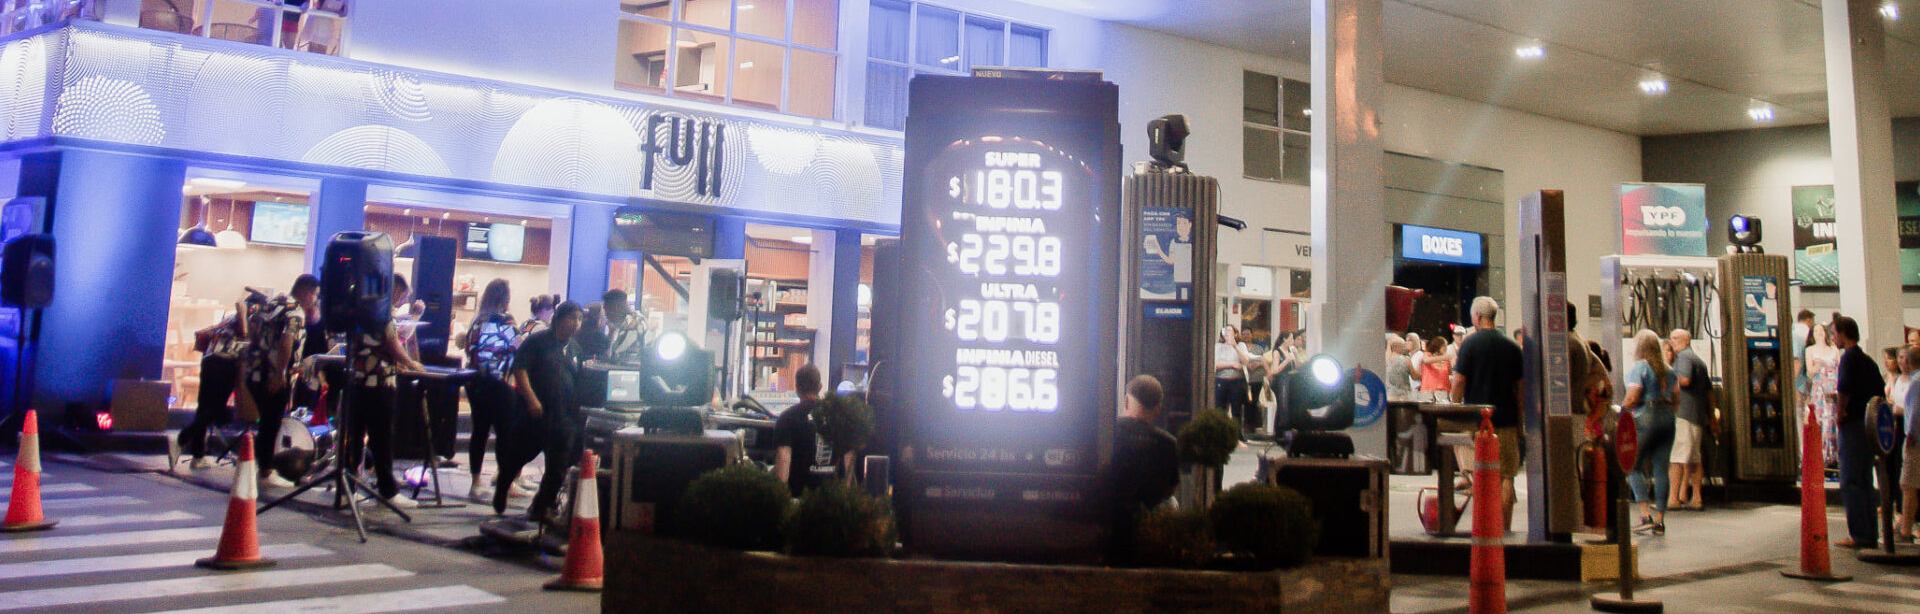
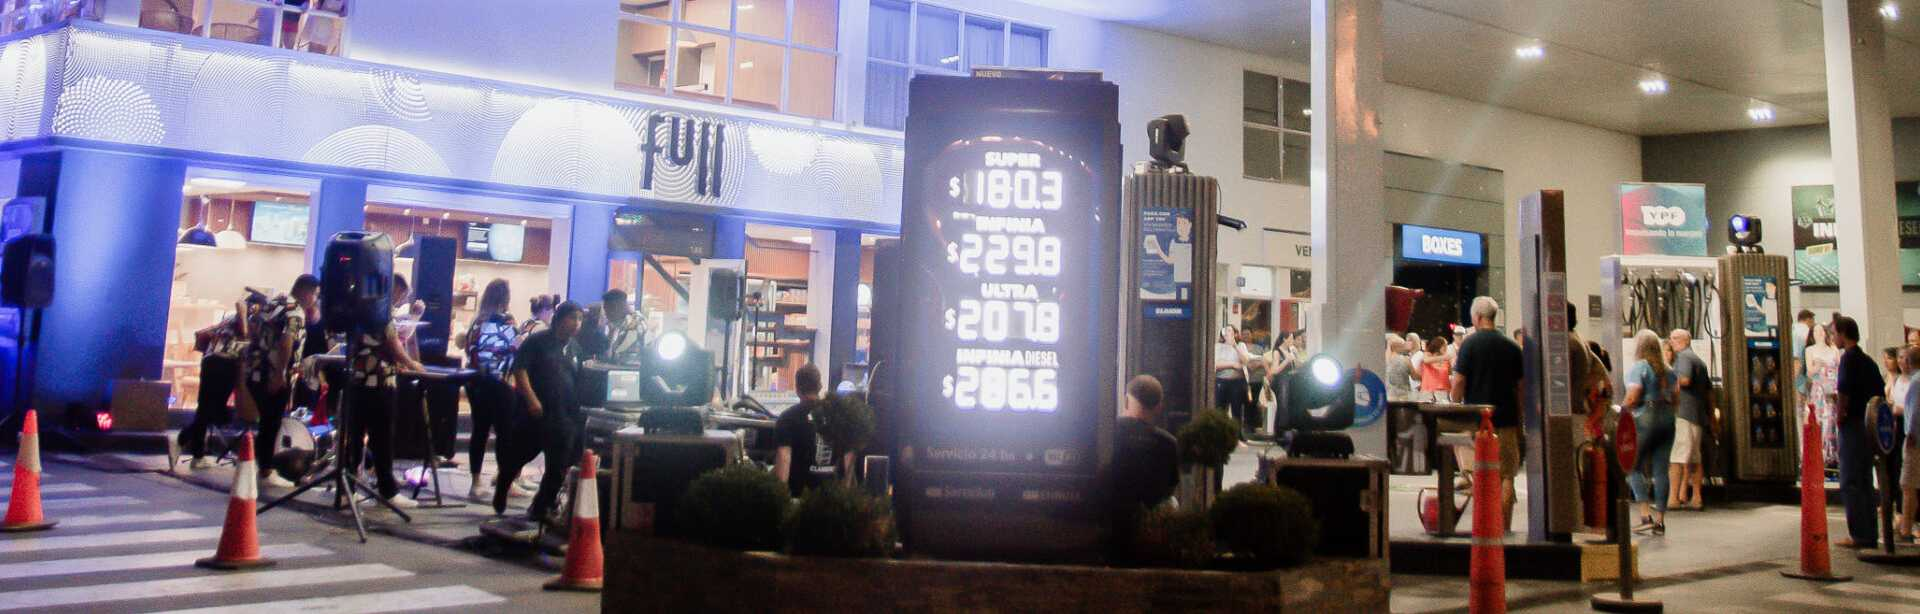
Update: Images are optimized and the Astro Image component is used.

diff --git a/src/styles/main.scss b/src/styles/main.scss
@@ -18,6 +18,7 @@ html {
 body {
   background-color: $white-color;
   font-family: "inter", sans-serif;
+  scrollbar-gutter: stable;
 }
 
 body::-webkit-scrollbar {
